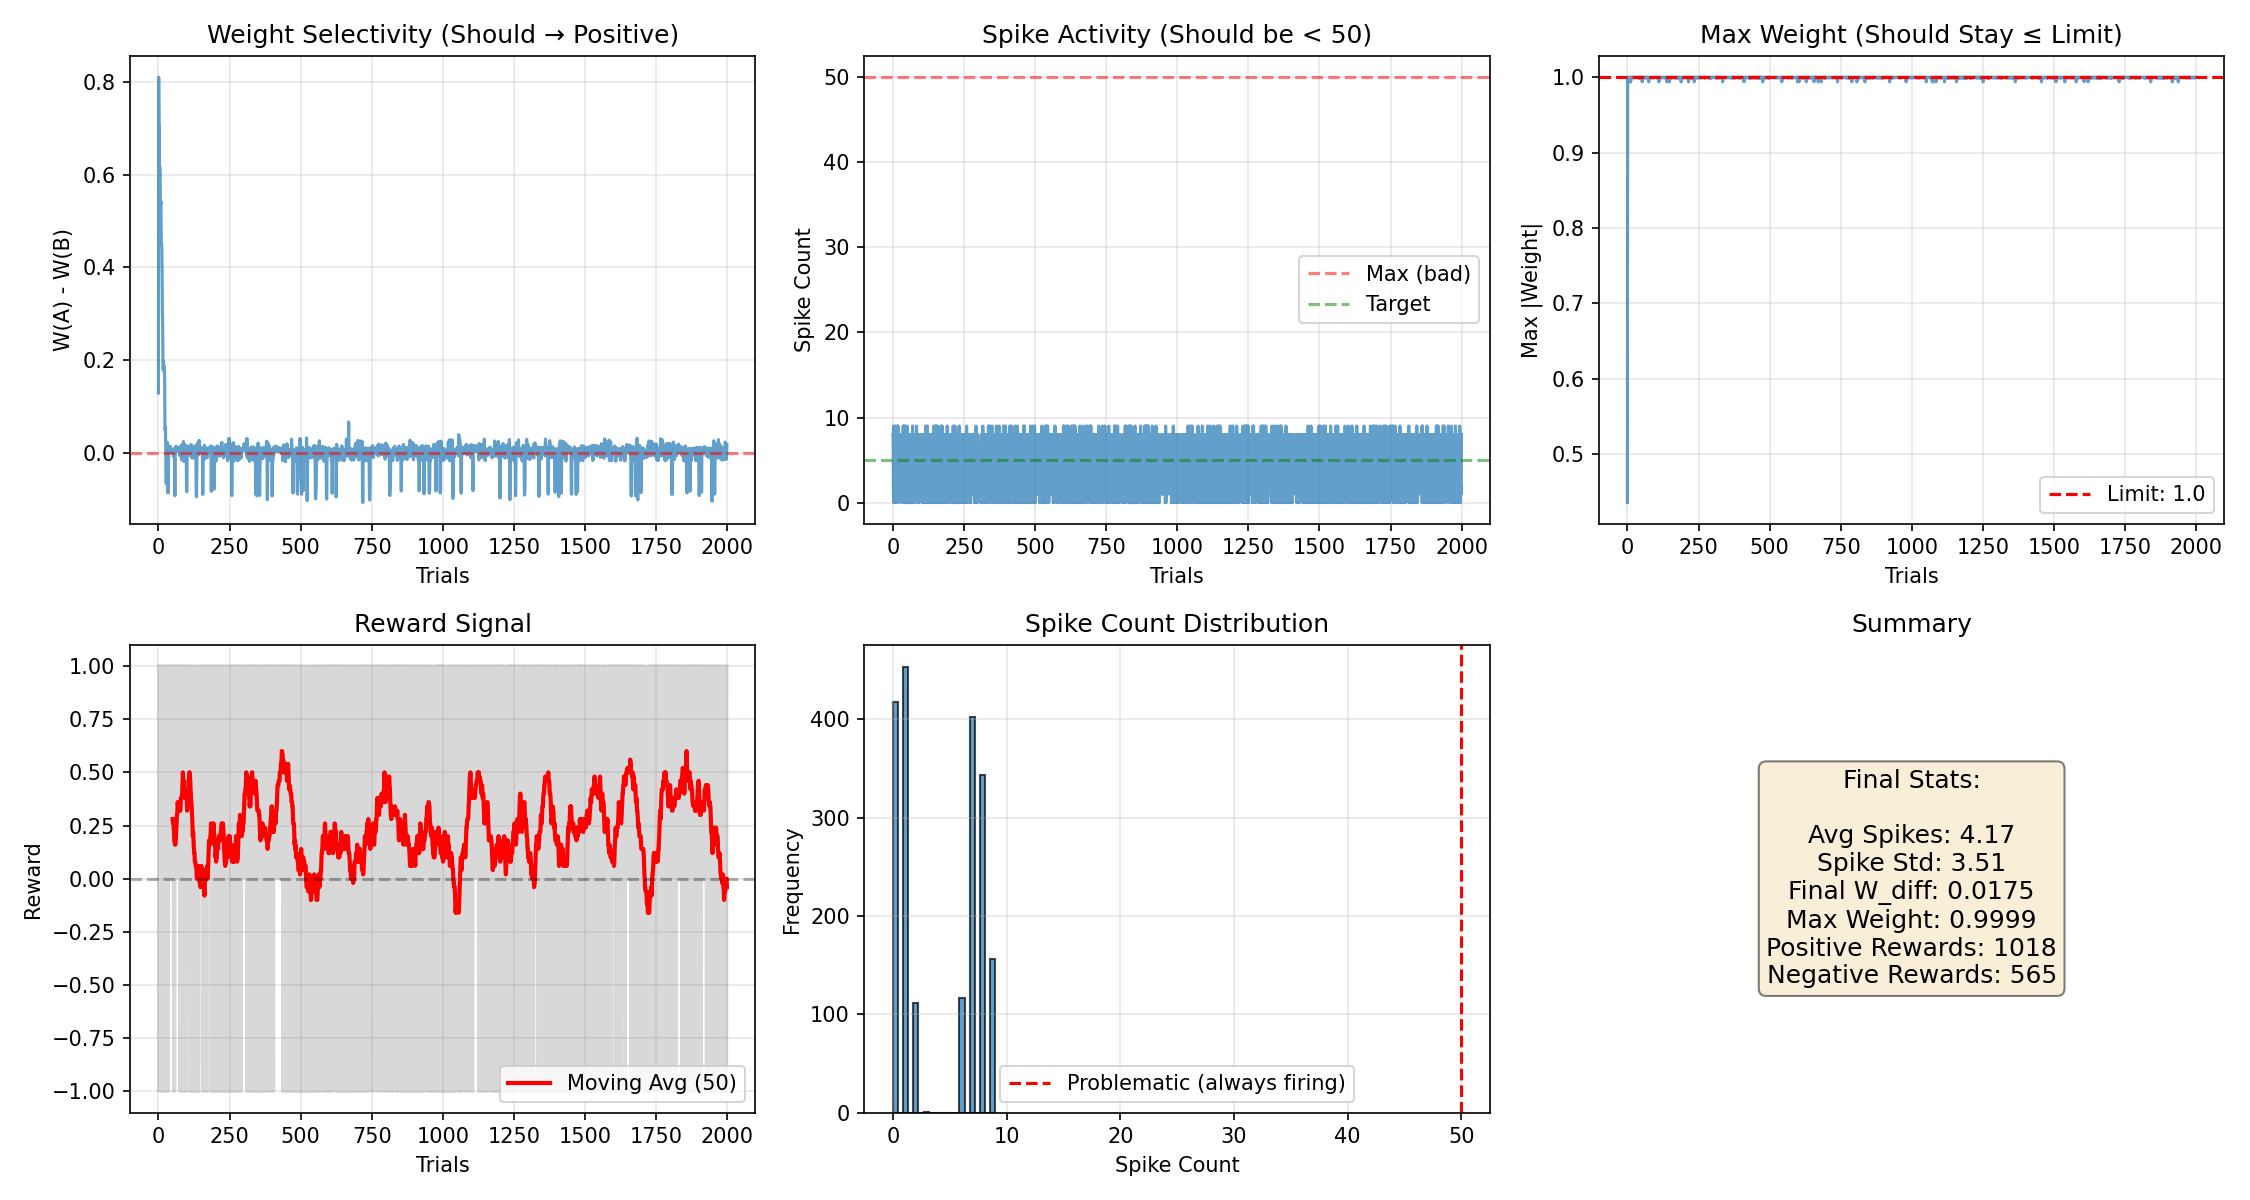
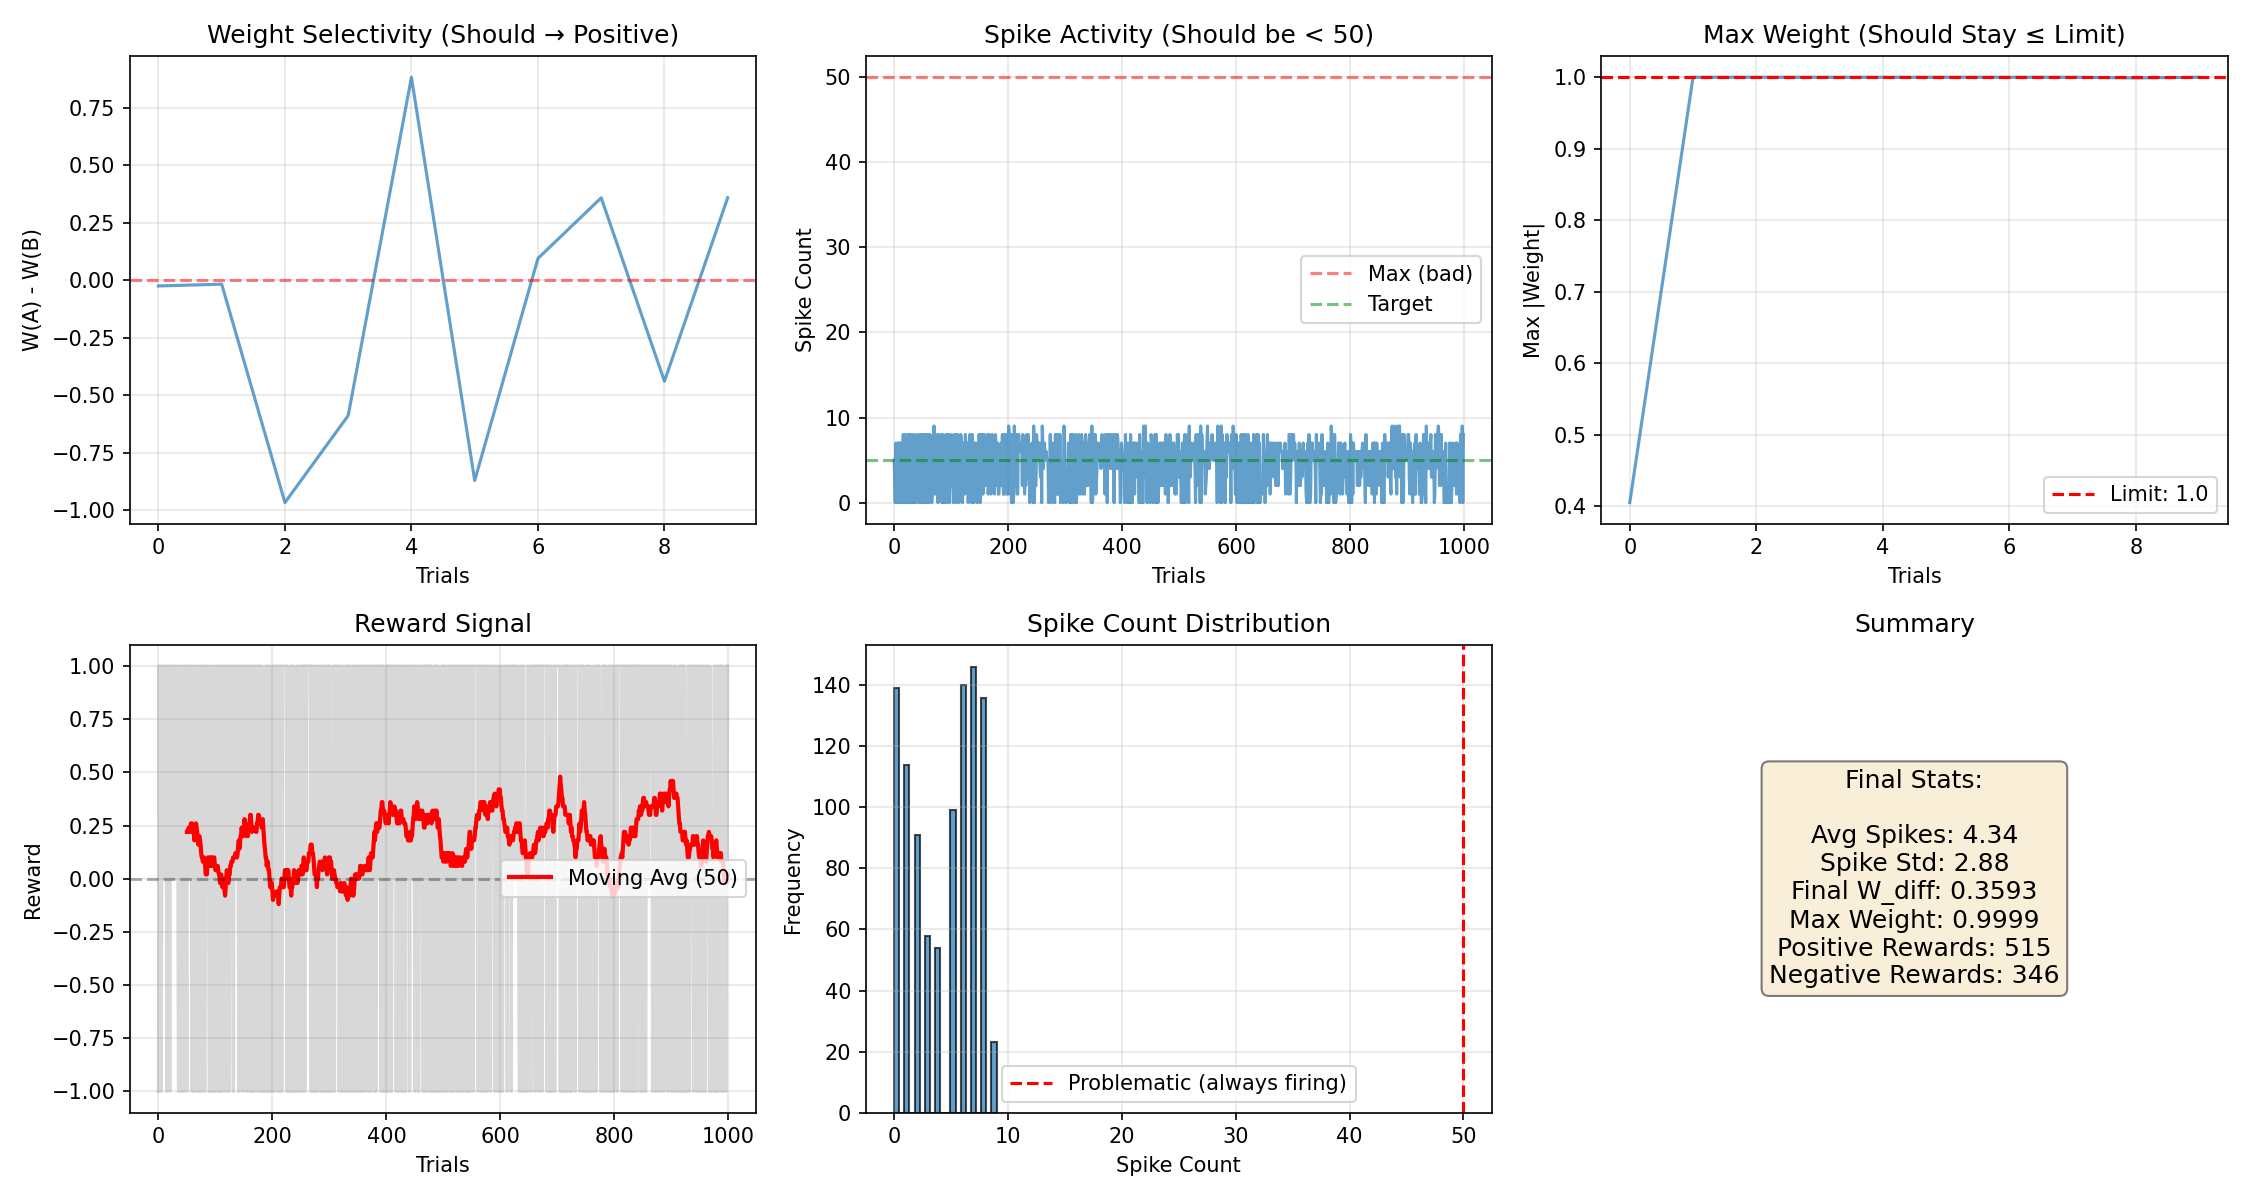
SNN

diff --git a/test_train.py b/test_train.py
@@ -8,9 +8,9 @@ from CNS.mechanisms.three_factor import ThreeFactorOptimizer
 def test_pavlov_unified():
     print("開始巴甫洛夫測試...")
 
-    n_neurons = 300
+    n_neurons = 1000
     decision_neuron_idx = 0
-    n_steps = 2000
+    n_steps = 1000
     device = torch.device("cuda" if torch.cuda.is_available() else "cpu")
     save_path = "result_unified.png"
 
@@ -44,12 +44,19 @@ def test_pavlov_unified():
         max_weight=max_weight,  # 傳入權重上限
     )
 
+    try:
+        layer = torch.compile(layer)
+        print("✅ 已啟用 torch.compile 加速")
+    except Exception as e:
+        print("⚠ 無法啟用 torch.compile，將使用一般模式:", e)
+
     # 定義輸入模式
     pattern_A_mask = torch.zeros(n_neurons)
     pattern_A_mask[:25] = 1.0
-
     pattern_B_mask = torch.zeros(n_neurons)
     pattern_B_mask[25:50] = 1.0
+
+    trial_patterns = (torch.rand(n_steps, device=device) > 0.5).float()
 
     # 記錄數據
     spike_counts = []
@@ -59,15 +66,13 @@ def test_pavlov_unified():
 
     for trial in range(n_steps):
         # 隨機選擇模式
-        is_pattern_A = torch.rand(1) > 0.5
+        is_pattern_A = trial_patterns[trial] == 1.0
 
         # 準備基礎輸入
-        if is_pattern_A:
-            base_input = (pattern_A_mask * input_gain).unsqueeze(0).to(device)
-        else:
-            base_input = (pattern_B_mask * input_gain).unsqueeze(0).to(device)
+        base_input = (pattern_A_mask if is_pattern_A else pattern_B_mask) * input_gain
+        base_input = base_input.unsqueeze(0).to(device)
 
-        total_decision_spikes = 0
+        total_decision_spikes = torch.tensor(0.0, device=device)
 
         # 時間步演化
         for t in range(50):
@@ -81,8 +86,7 @@ def test_pavlov_unified():
             spikes, calcium = layer(current_input)
 
             # 記錄決策神經元的放電
-            decision_spike = layer.post_spike[:, decision_neuron_idx].item()
-            total_decision_spikes += decision_spike
+            total_decision_spikes += layer.post_spike[:, decision_neuron_idx].sum()
 
             # 每步都更新 eligibility（無獎勵）
             opt.step(reward=0.0)
@@ -100,17 +104,16 @@ def test_pavlov_unified():
         # 用累積的 eligibility 和獎勵學習
         opt.step(reward=reward)
 
-        # 記錄權重差異和最大權重
-        w = layer.synapse.weight.data[decision_neuron_idx].cpu().numpy()
-        diff = w[:25].mean() - w[25:50].mean()
-        w_max = layer.synapse.weight.data.abs().max().item()
-
-        weight_diff.append(diff)
-        spike_counts.append(total_decision_spikes)
+        spike_counts.append(total_decision_spikes.item())
         rewards_history.append(reward)
-        weight_max_history.append(w_max)
 
         if trial % 100 == 0:
+            w = layer.synapse.weight.data[decision_neuron_idx].cpu().numpy()
+            diff = w[:25].mean() - w[25:50].mean()
+            w_max = layer.synapse.weight.data.abs().max().item()
+
+            weight_diff.append(diff)
+            weight_max_history.append(w_max)
             recent_avg = (
                 sum(spike_counts[-10:]) / 10
                 if len(spike_counts) >= 10

diff --git a/CNS/mechanisms/snn_module.py b/CNS/mechanisms/snn_module.py
@@ -88,12 +88,13 @@ class IzhikevichLayer(nn.Module):
         with torch.no_grad():
             self.synapse.weight.fill_(0.0)
             if strategy == "random":
-                for i in range(self.n_neurons):
-                    for j in range(self.n_neurons):
-                        if i != j and torch.rand(1) < connection_prob:
-                            strength = torch.rand(1) * 0.3 * max_weight
-                            self.synapse.weight[j, i] = strength * self.neuron_type[i]
-
+                device = self.synapse.weight.device
+                weights = torch.rand(self.n_neurons, self.n_neurons, device=device)
+                weights.mul_(0.3 * max_weight)
+                weights.mul_(self.neuron_type.view(1, -1))
+                mask = torch.rand(self.n_neurons, self.n_neurons, device=device) < connection_prob
+                mask.fill_diagonal_(False)
+                self.synapse.weight.data.copy_(weights * mask.float())
             elif strategy == "empty":
                 self.synapse.weight.data.fill_(0.0)
 
